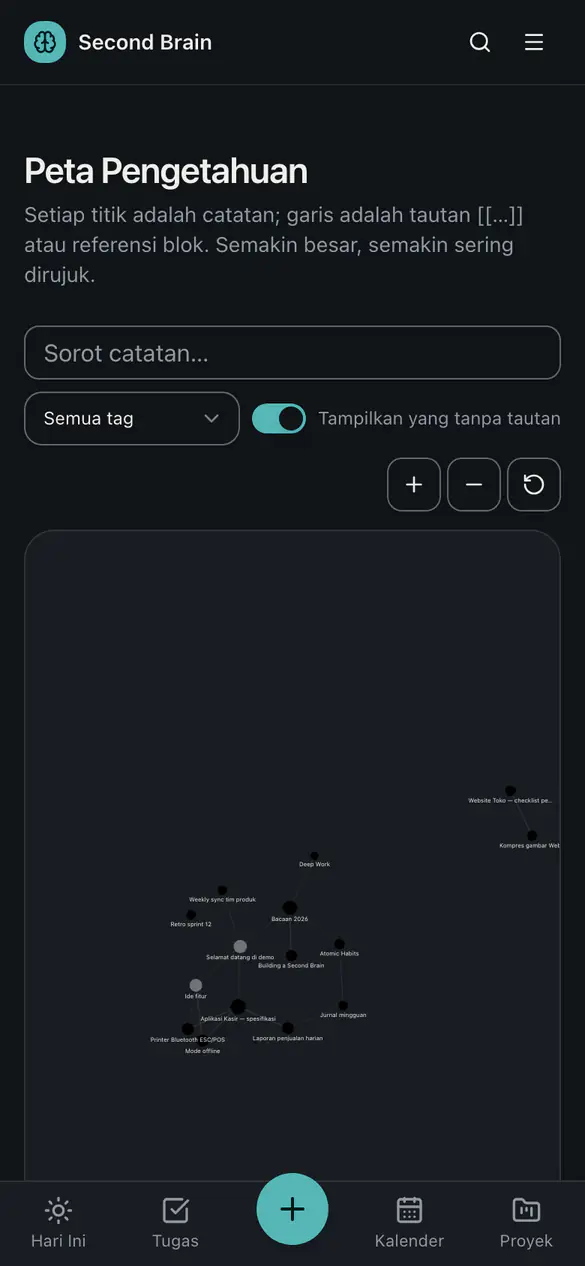
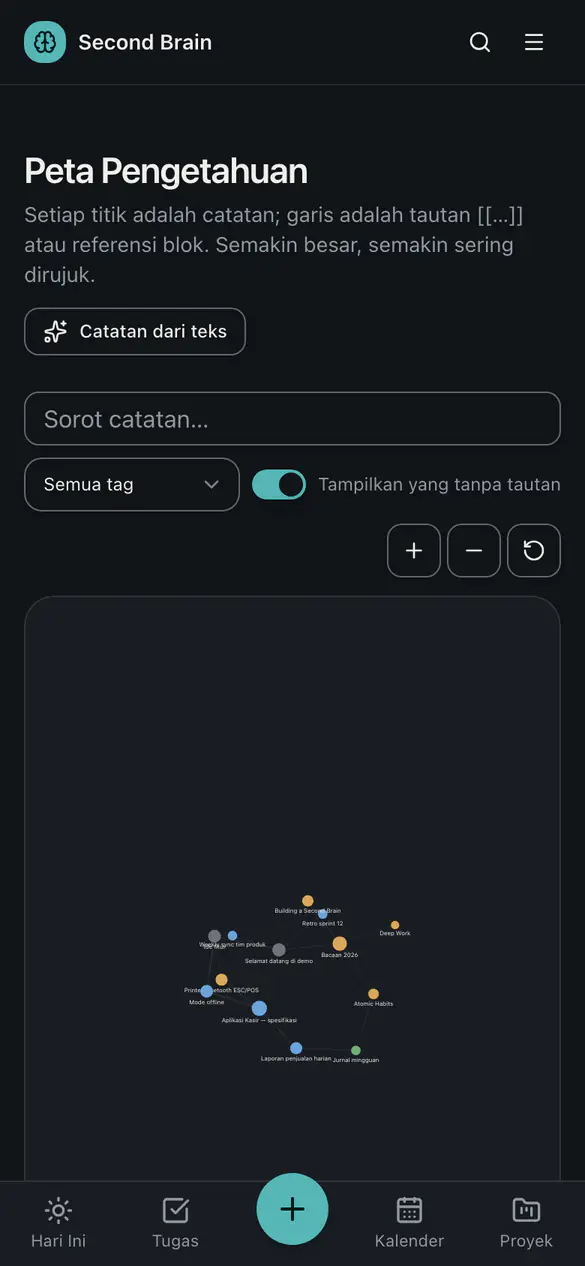
docs(screenshots): re-capture graph and automations, add habits
The previous graph and automations captures predate PR #68 and showed
black graph nodes, raw project UUIDs in rule conditions and a false
"jadwal tidak valid" on scheduled rules. Re-captured them from the demo
(now migrated through 0026 and reset): graph nodes are coloured by
project and rule chips show readable values ("Proyek = Aplikasi Kasir",
"Prioritas = Tinggi", "Setiap Senin pukul 08:00").

- graph-* and automations-*: desktop 1440x900 + mobile 390x844, light
  and dark, WebP via the existing convert.mjs
- landing/automations-*: re-cropped (it still showed "Prioritas = high")
- reports-*: refreshed with the new burndown/throughput/focus charts
- habits-*: new captures of the habit tracker; added to capture.mjs and
  to the README gallery

diff --git a/README.md b/README.md
@@ -47,9 +47,11 @@ Captured from the seeded [public demo](https://demo-2ndbrain.ilramdhan.dev) (sig
 <tr><th>Notes</th><th>Note editor</th></tr>
 <tr><td width="50%"><picture><source media="(prefers-color-scheme: dark)" srcset="docs/screenshots/notes-desktop-dark.webp"><img src="docs/screenshots/notes-desktop-light.webp" alt="Notes grid with tags, status and project"></picture></td><td width="50%"><picture><source media="(prefers-color-scheme: dark)" srcset="docs/screenshots/note-desktop-dark.webp"><img src="docs/screenshots/note-desktop-light.webp" alt="Block-based note editor with links, backlinks and properties"></picture></td></tr>
 <tr><th>Knowledge graph</th><th>Reports</th></tr>
-<tr><td width="50%"><picture><source media="(prefers-color-scheme: dark)" srcset="docs/screenshots/graph-desktop-dark.webp"><img src="docs/screenshots/graph-desktop-light.webp" alt="Force-directed graph of notes and their links"></picture></td><td width="50%"><picture><source media="(prefers-color-scheme: dark)" srcset="docs/screenshots/reports-desktop-dark.webp"><img src="docs/screenshots/reports-desktop-light.webp" alt="Focus report: time per day, per project and top tasks"></picture></td></tr>
+<tr><td width="50%"><picture><source media="(prefers-color-scheme: dark)" srcset="docs/screenshots/graph-desktop-dark.webp"><img src="docs/screenshots/graph-desktop-light.webp" alt="Force-directed graph of notes and their links"></picture></td><td width="50%"><picture><source media="(prefers-color-scheme: dark)" srcset="docs/screenshots/reports-desktop-dark.webp"><img src="docs/screenshots/reports-desktop-light.webp" alt="Reports: burndown, throughput and focus time per day"></picture></td></tr>
 <tr><th>Inbox & AI</th><th>Automations</th></tr>
 <tr><td width="50%"><picture><source media="(prefers-color-scheme: dark)" srcset="docs/screenshots/inbox-desktop-dark.webp"><img src="docs/screenshots/inbox-desktop-light.webp" alt="Inbox with raw captures and the Process with AI action"></picture></td><td width="50%"><picture><source media="(prefers-color-scheme: dark)" srcset="docs/screenshots/automations-desktop-dark.webp"><img src="docs/screenshots/automations-desktop-light.webp" alt="Automation rules with triggers, conditions and actions"></picture></td></tr>
+<tr><th>Habits</th><th></th></tr>
+<tr><td width="50%"><picture><source media="(prefers-color-scheme: dark)" srcset="docs/screenshots/habits-desktop-dark.webp"><img src="docs/screenshots/habits-desktop-light.webp" alt="Habit tracker: weekly check-ins, streaks and an 8-week consistency chart"></picture></td><td width="50%"></td></tr>
 </table>
 
 **On a phone** (390×844). The Telegram chat is a static mockup of the bot's real replies (`src/server/n8n/bot.server.ts`), since a real chat would expose account details.
